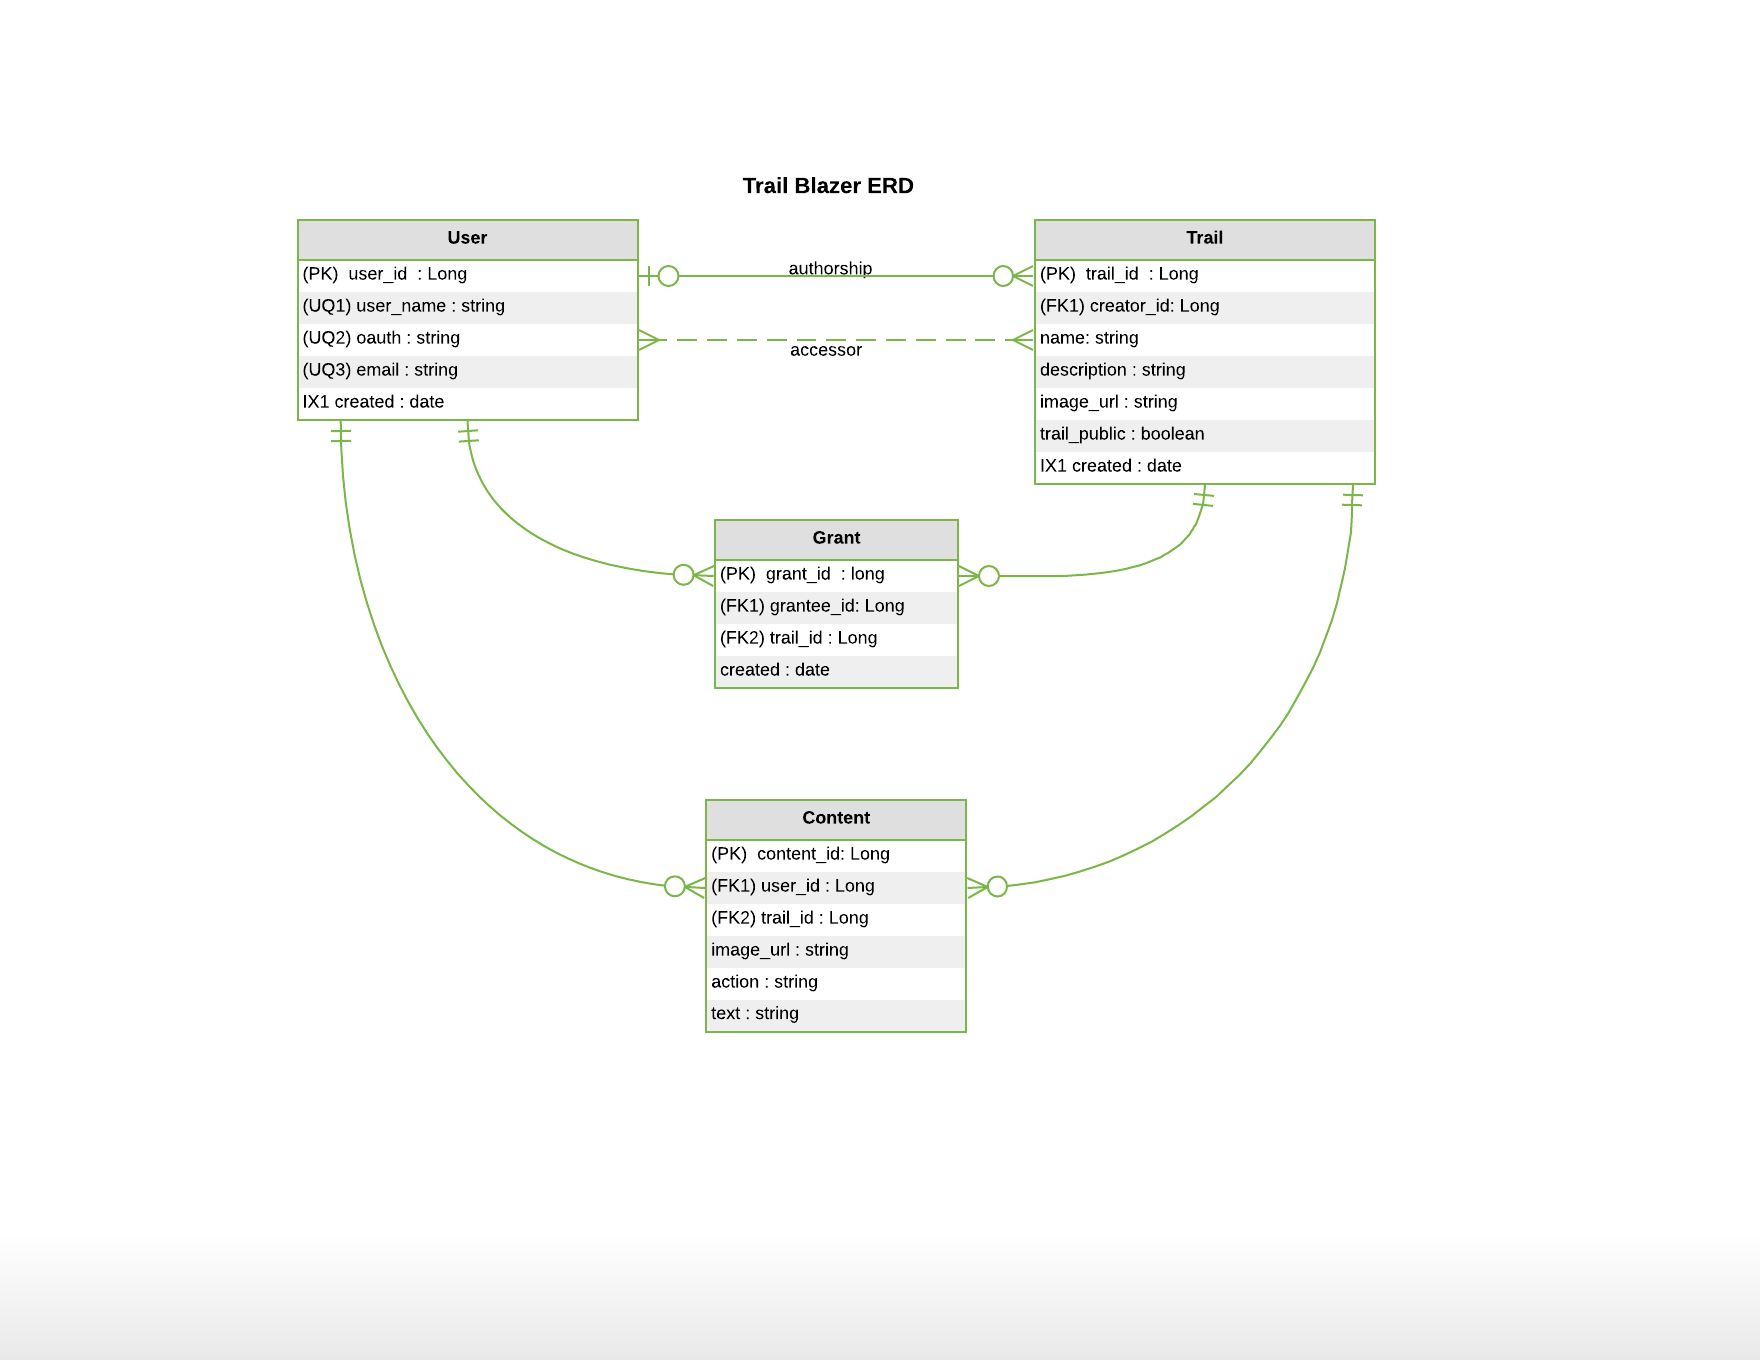
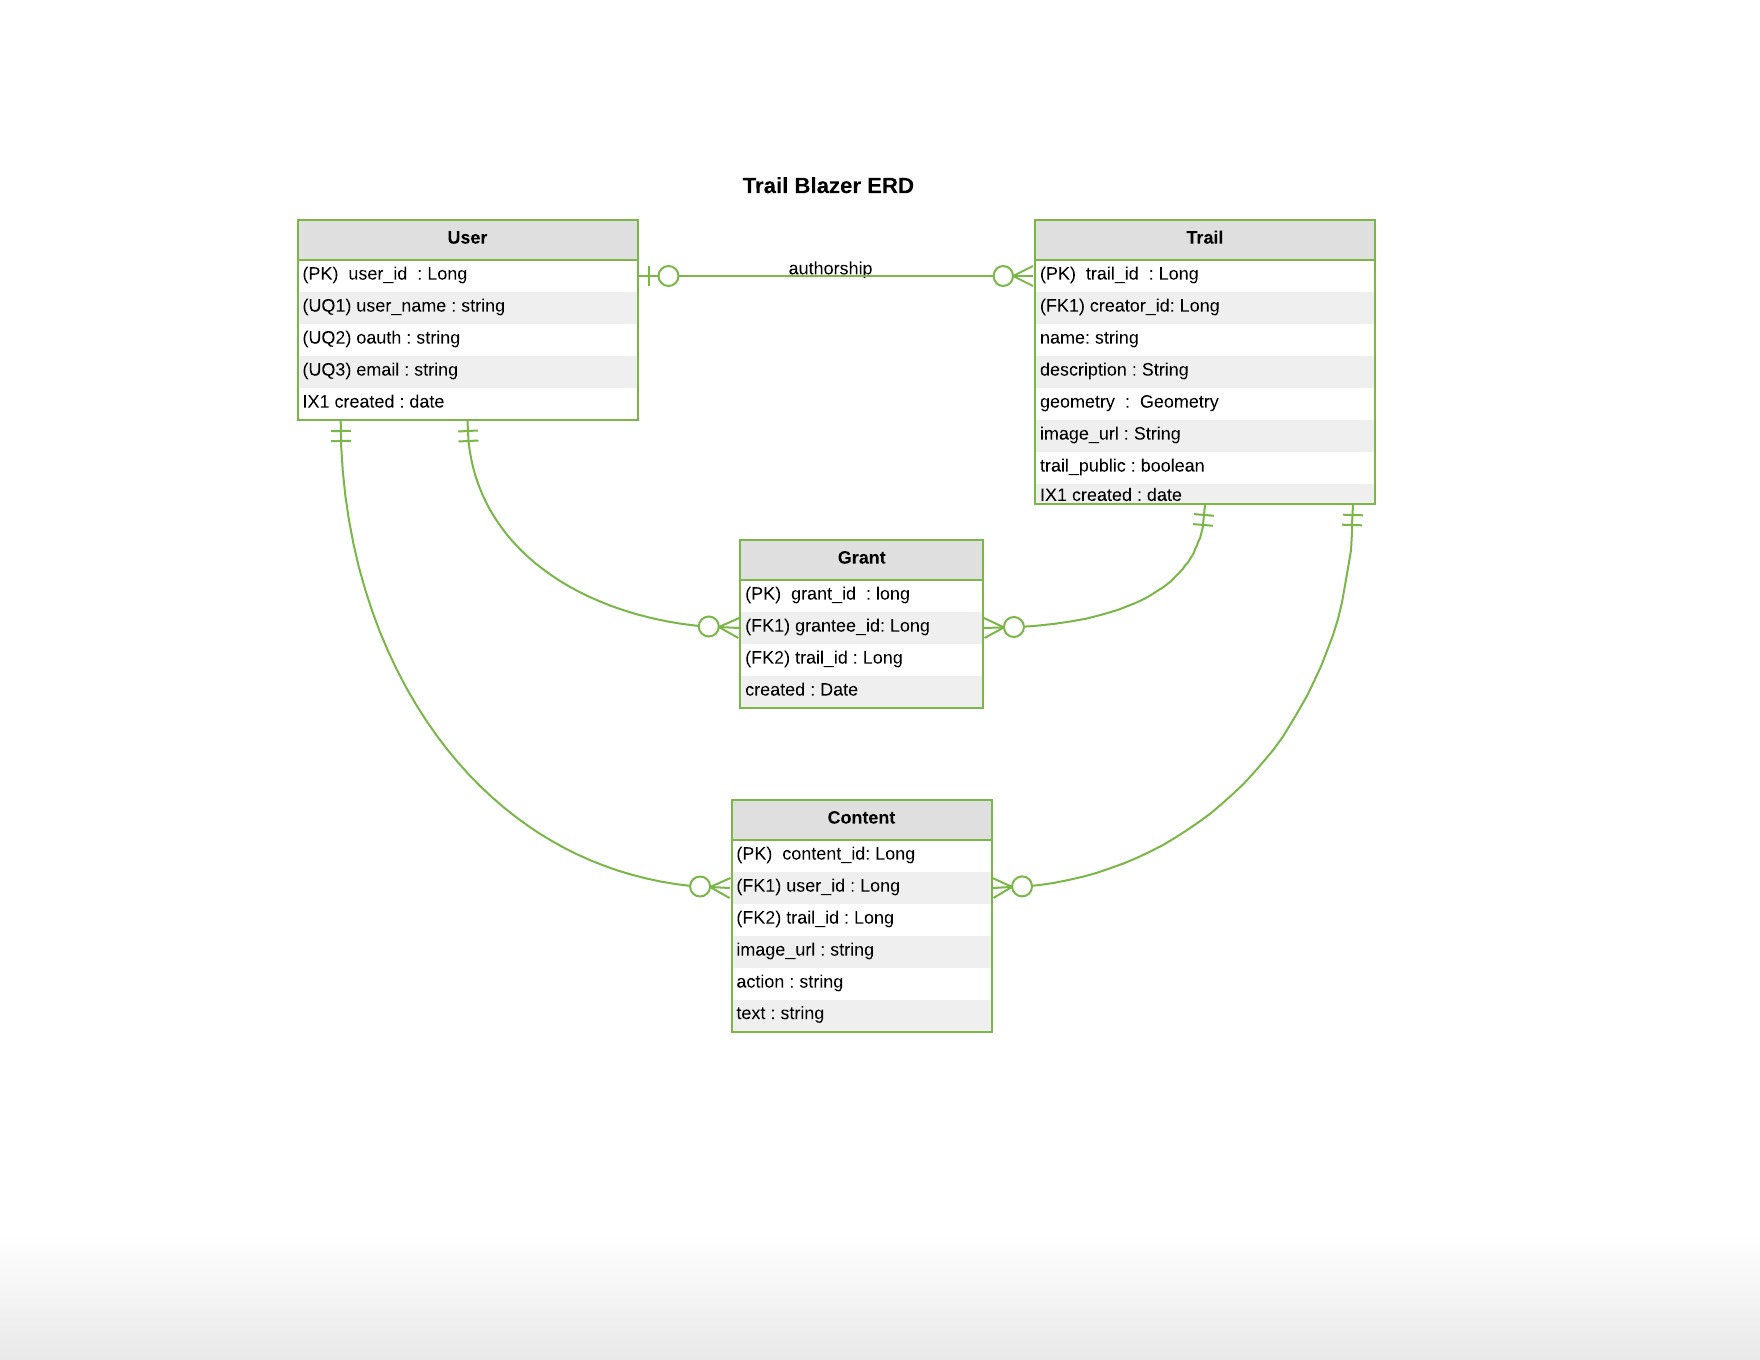
Updated ERD - got rid of accessor relationship

diff --git a/README.md b/README.md
@@ -31,8 +31,9 @@ Discover, share and blaze your favorite trails right from your phone.
 
 ## Resources 
 
-* [Data Model Implementation Scenarios](https://deep-dive-coding-java-cohort-8.github.io/2019/10/17/data-model-implementation-scenarios.html)
 * [Milestones](docs/milestones.md)
+* [Data Model Implementation Scenarios](https://deep-dive-coding-java-cohort-8.github.io/2019/10/17/data-model-implementation-scenarios.html)
+
 
 
 

diff --git a/docs/milestones.md b/docs/milestones.md
@@ -16,9 +16,9 @@
 + [x] Intended users
 + [x] User stories
 + [ ] Wireframes
-+ [ ] ERDs
-+ [ ] Entity classes
-+ [ ] Repository Interfaces 
-+ [ ] REST Controllers & Application Logic Services 
-+ [ ] Client-side Authentication with Token Logging
++ [x] ERDs
++ [x] Entity classes
++ [x] Repository Interfaces 
++ [x] REST Controllers & Application Logic Services 
++ [x] Client-side Authentication with Token Logging
 
